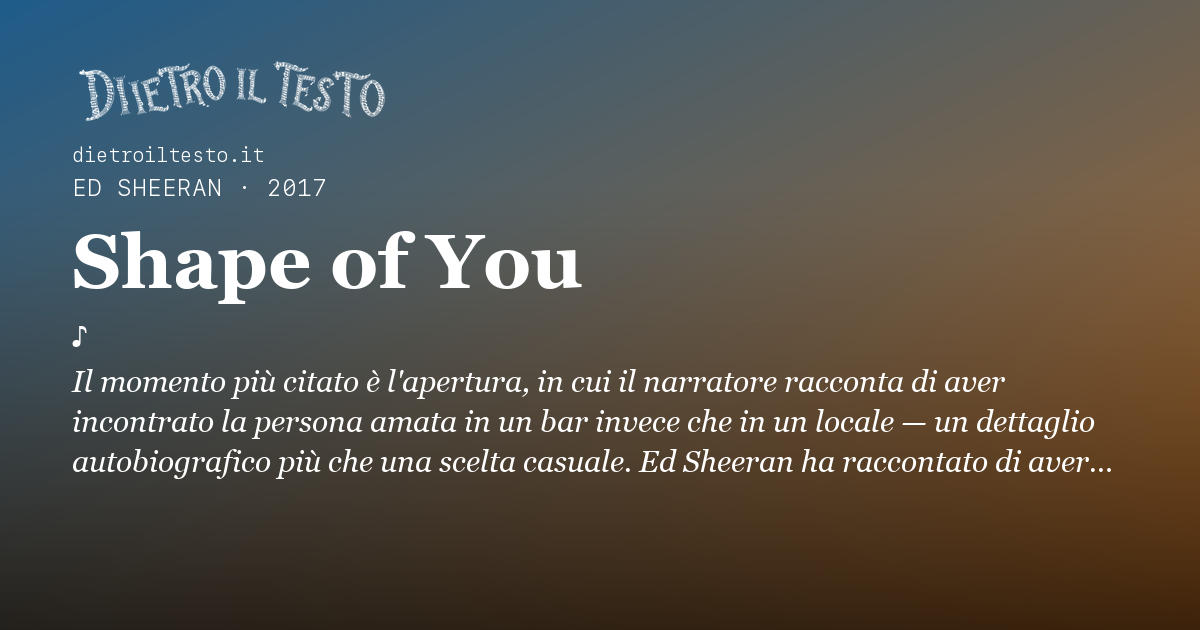
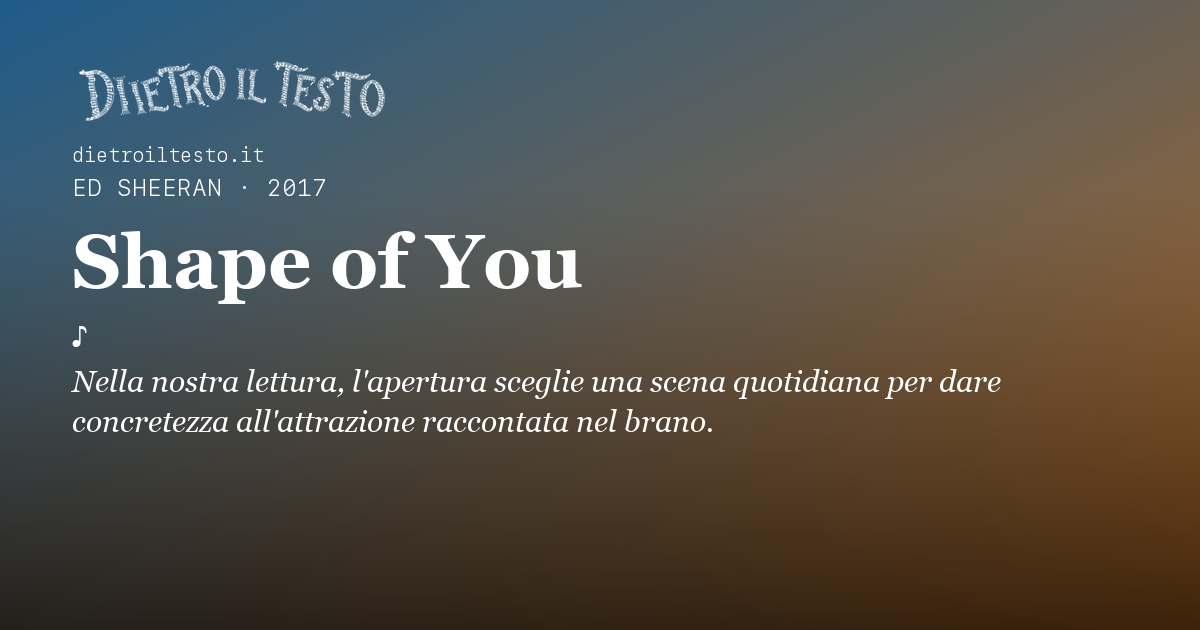
Correggi Shape of You e frase iconica P3

Changed region(s): [[0.0617, 0.573, 0.925, 0.754]]

diff --git a/ROADMAP.md b/ROADMAP.md
@@ -4165,3 +4165,13 @@ Nella copia separata è stata riscritta la frase iconica a livello di funzione d
 Il proprietario ha scritto «applica e procedi» dopo aver visto la proposta del §30. Il commit `c2279c74` è stato integrato con avanzamento diretto in `main` locale. Rigenerato il sito: 26 file pubblicabili sono cambiati, fra cui la pagina della canzone, le anteprime collegate, l'indice di ricerca e le sitemap. Tutti i file del pacchetto generato coincidono byte per byte con quelli della cartella principale. Il file non tracciato `SEO-LASTMOD-2026-09-21.md` conserva lo stesso hash SHA-256 precedente.
 
 **Controlli:** `check-coerenza`, `check-seo`, `check-link`, `check-filtri`, `check-nature` e `git diff --check` passano. La verifica visiva desktop e mobile della pagina e dell'immagine condivisibile è documentata al §30. La modifica è nella cartella principale locale; non è stata inviata a GitHub né pubblicata online. Le correzioni di altre schede e le proposte di immagini restano in copie separate.
+
+## 32. Proposta separata: correzione di Shape of You, 1 ottobre 2026
+
+Il rapporto indipendente `rapporti/orario/06-shape-of-you.md` segnala una traduzione parziale nell'apertura della frase iconica (P3), la destinazione iniziale attribuita erroneamente a Rihanna, l'idea non documentata che il brano si sia rivelato «perfetto» per Sheeran, una progressione sentimentale non verificata e una descrizione SEO che confonde i tre autori della sessione con tre nomi aggiunti successivamente ai crediti. È una segnalazione, non la prova: le fonti pertinenti sono state riaperte il 1 ottobre.
+
+La nuova scheda attribuisce a [Music Business Worldwide, intervista diretta a Steve Mac](https://www.musicbusinessworldwide.com/steve-mac-there-are-no-rules-to-pop-music-now-it-just-has-to-be-of-great-quality/) la sessione con Sheeran e McDaid, l'ipotesi di proporre il brano a Rihanna e il suggerimento del dirigente Atlantic UK Ben Cook. Non dichiara quale artista fosse la prima destinataria: il resoconto riaperto di Mac non stabilisce quella precedenza. [Stereogum](https://stereogum.com/2287609/the-number-ones-ed-sheerans-shape-of-you/columns/the-number-ones) offre una lettura attribuita del racconto del brano; [Pitchfork](https://pitchfork.com/news/72389-ed-sheeran-gives-tlc-no-scrubs-writers-credit-on-shape-of-you/) distingue i tre autori iniziali dai tre nomi aggiunti dopo l'uscita, mentre la [Recording Academy](https://www.grammy.com/awards/categories/best-pop-solo-performance/2018/) conferma il premio del 2018. La vecchia fonte Billboard risponde 402; anche Songfacts non è risultata apribile nella nuova verifica. Sono state sostituite con quattro fonti accessibili e pertinenti. La frase iconica è ora una lettura dichiarata della funzione dell'apertura, senza elementi tradotti del verso. Corpo, descrizione SEO e immagine di condivisione sono allineati; nessuna data di verifica completa è stata aggiornata.
+
+**Prove:** rigenerate 687 pagine più 404; `check-coerenza`, `check-seo`, `check-link`, `check-attribuzioni --tutte` e `git diff --check` passano. Il browser mostra la nuova scheda su desktop e a 390 px senza fuoriuscita orizzontale né errori di console; l'immagine condivisibile è stata controllata visivamente e non tronca il testo. Catalogo invariato: 317 canzoni, 104 artisti, 251 album.
+
+**Stato:** solo nella copia separata, in attesa di revisione del proprietario. Mancano ancora le integrazioni editoriali dell'audit completo, fra cui produzione e causa sul plagio; questa correzione non le presenta come verificate. Nessun trasferimento nella cartella principale, push o pubblicazione.
